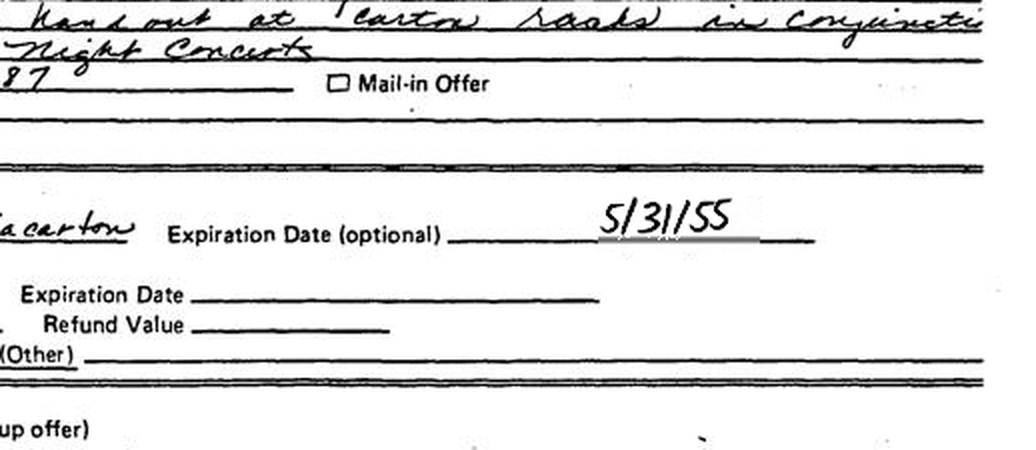
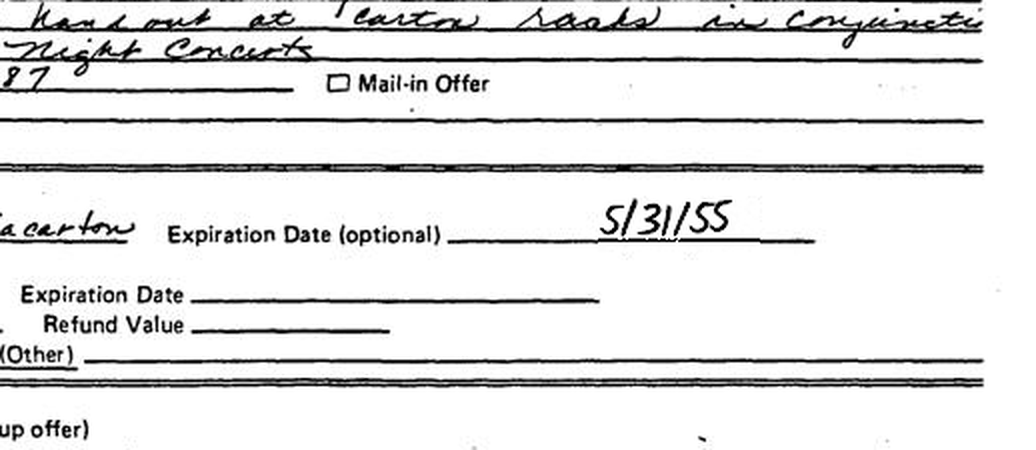
Redraw preserved rules with the original line's darkness and position
A redrawn rule came out grey and about half a pixel high, so it did not line up
with the untouched line either side of the box.

The measurements were being taken the way the threshold cuts the line rather
than the way ink behaves. A scanned hairline is one dark row with light
antialiasing above and below; every one of those rows falls under the line
threshold, so thickness came out as 3px, and gray as the median of their values
blended the dark core with its pale edges. Redrawing a uniform 3px band of that
blend spread one row's worth of ink over three, and the band's centre landed
between rows.

Each column now yields a darkness-weighted centre, its ink mass and its darkest
value. The line is fitted through those centres and redrawn with the core's
darkness, at whatever thickness carries the same mass. On the advertisement
figure the rule read 204/6/162 across three rows in the original and 110/110/186
redrawn; it now reads 254/1/253 against the original's 204/6/162 - dark, one
row, and on the right row.

This affects every redacted box with a rule through it, so output produced
before this commit has the grey raised version.

Changed region(s): [[0.556, 0.4356, 0.7413, 0.56]]

diff --git a/src/doc_redact/background.py b/src/doc_redact/background.py
@@ -208,12 +208,34 @@ def detect_rules(gray: np.ndarray, bbox: BBox, words: list[Word] | None = None) 
         left, right = xs.min() + x0, xs.max() + x0 + 1
         if right - left < length:
             continue
+        # Measure the line the way ink behaves, not the way the threshold cuts it. A scanned hairline
+        # is one dark row with light antialiasing either side; counting every row under the threshold
+        # made it three rows thick, and taking the median of their values made it mid-grey. Redrawn
+        # that way it came out as a wide grey band sitting half a pixel high. So each column gives a
+        # darkness-weighted centre, its ink mass, and its darkest value; the line is then redrawn with
+        # the core's darkness and whatever thickness carries the same mass.
         columns = np.unique(xs)
-        centers = np.array([ys[xs == c].mean() for c in columns]) + y0
-        widths = np.array([(xs == c).sum() for c in columns])
+        values = region[ys, xs].astype(np.float64)
+        weights = np.clip(background - values, 0.0, None)
+        centers, masses, cores, widths = [], [], [], []
+        for c in columns:
+            column = xs == c
+            weight = weights[column]
+            total = float(weight.sum())
+            if total <= 0:
+                continue
+            centers.append(float(((ys[column] + y0) * weight).sum() / total))
+            masses.append(total)
+            cores.append(float(values[column].min()))
+            widths.append(int(column.sum()))
+        if len(centers) < 2:
+            continue
+        columns = columns[:len(centers)] if len(centers) != len(columns) else columns
+        centers = np.array(centers)
         slope, intercept = np.polyfit(columns + x0, centers, 1)
-        thickness = float(np.median(widths))
-        if abs(slope) > LINE_MAX_SLOPE or thickness > max_thickness:
+        core = float(np.median(cores))
+        thickness = float(np.median(masses)) / max(1.0, background - core)
+        if abs(slope) > LINE_MAX_SLOPE or float(np.median(widths)) > max_thickness:
             continue
         extends_past_box = left <= bbox.left - LINE_OVERHANG or right >= bbox.right + LINE_OVERHANG
         if not extends_past_box:
@@ -226,9 +248,8 @@ def detect_rules(gray: np.ndarray, bbox: BBox, words: list[Word] | None = None) 
             continue
         if not _looks_like_a_ruled_line(gray, threshold, left, right, intercept, slope, thickness, words or []):
             continue
-        values = region[ys, xs]
-        rules.append(Rule(x0=mid, y0=float(y_mid), slope=float(slope), thickness=thickness,
-                          x_start=float(left), x_end=float(right), gray=float(np.median(values))))
+        rules.append(Rule(x0=mid, y0=float(y_mid), slope=float(slope), thickness=max(0.6, thickness),
+                          x_start=float(left), x_end=float(right), gray=core))
     return rules
 
 

diff --git a/tests/test_background.py b/tests/test_background.py
@@ -203,3 +203,27 @@ def test_lines_can_be_turned_off():
     out = rgb.copy()
     assert background.blank(out, rgb, gray, BOX, np.random.default_rng(1), keep_lines=False) == []
     assert _dark_inside(out, BOX).mean() < 0.01
+
+
+def test_a_redrawn_rule_keeps_the_original_line_dark_and_in_place():
+    """A scanned hairline is one dark row with light antialiasing either side. Counting every row
+    under the threshold made it three rows thick, and the median of their values made it mid-grey,
+    so the redrawn line came out as a grey band sitting half a pixel high."""
+    rgb = np.full((200, 600, 3), 250, np.uint8)
+    row = 120
+    rgb[row] = 8               # the line's core
+    rgb[row - 1] = 205         # antialiasing above
+    rgb[row + 1] = 160         # and below
+    gray = np.asarray(Image.fromarray(rgb).convert("L"))
+    box = BBox(left=100, top=row - 12, width=300, height=24)
+
+    [rule] = background.detect_rules(gray, box)
+    assert rule.gray < 30, "the redrawn line should carry the core's darkness, not a blend with its edges"
+    assert rule.thickness < 2.0, "one dark row, not the full extent of everything under the threshold"
+    assert abs(rule.y_at(np.array([250.0]))[0] - row) < 0.5
+
+    canvas = rgb.copy()
+    background.blank(canvas, rgb, gray, box, np.random.default_rng(0), paper_fill=False, keep_lines=True)
+    drawn = canvas[:, int(box.left) + 10]
+    assert drawn[row].min() < 40  # the line is back, and dark
+    assert drawn[row - 2].min() > 200 and drawn[row + 2].min() > 200  # without a grey halo
